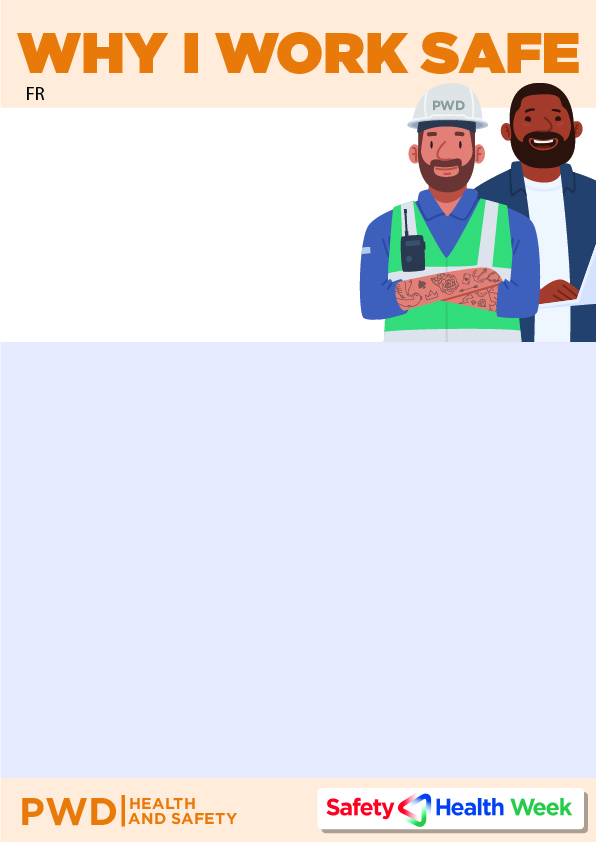
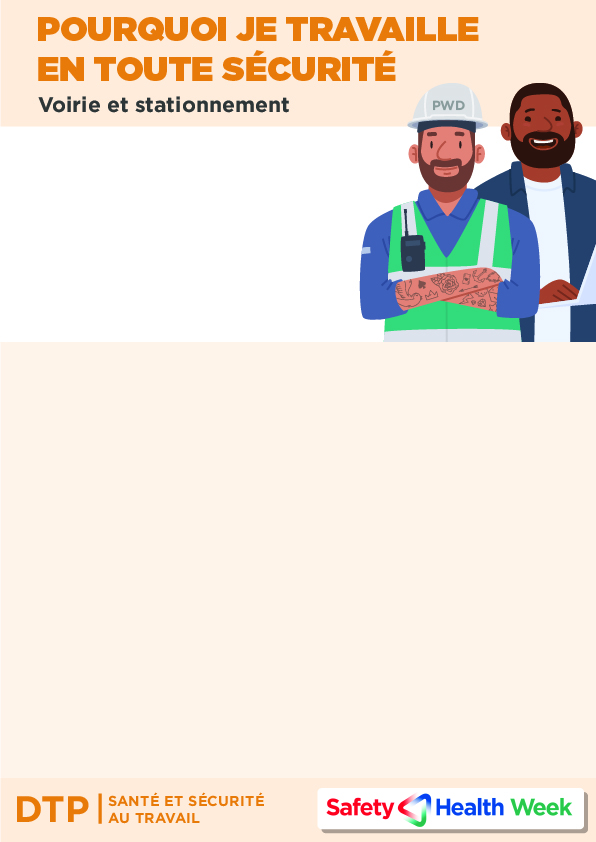
Add files via upload

diff --git a/index-fr.html b/index-fr.html
@@ -195,7 +195,7 @@
     background: #f5f7fa;
     position: fixed;
     z-index: -1;
-    width: 420px;
+    width: 500px;
     height: 1000px;
     overflow: hidden;
     margin-left: -20px;
@@ -607,46 +607,46 @@
   </div>
 </div>
 <div id="successBanner">
-  Poster created! Click Save Image to download and print for your Safety Week board. If you are unable to print, send the image to your supervisor for printing.
+  Affiche créée ! Cliquez sur « Enregistrer l’image » pour la télécharger et l’imprimer pour votre tableau de la Semaine de la sécurité. Si vous ne pouvez pas imprimer.
 </div>
 <div id="errorBanner">
-  Please complete your name and at least one reason before generating your poster.
+  Veuillez indiquer votre nom et au moins un motif avant de générer votre affiche. 
 </div>
 <div class="container">
   <div id="panel"></div>
 
   <div class="form-section">
-    <div class="site-title">PWD Poster Maker</div>
-    <div class="step">Step 1: Select Service Area</div>
+    <div class="site-title">DTP Créateur d'affiches</div>
+    <div class="step">Étape 1 : Sélectionnez votre secteur d'activité </div>
     <div class="template-buttons">
-      <button class="outline selected" onclick="selectTemplate('template6.jpg', this)">General</button>
-      <button class="outline" onclick="selectTemplate('template7.jpg', this)">Parks & Forestry</button>
-      <button class="outline" onclick="selectTemplate('template10.jpg', this)">Roads & Parking</button>
-      <button class="outline" onclick="selectTemplate('template9.jpg', this)">Solid Waste</button>
-      <button class="outline" onclick="selectTemplate('template8.jpg', this)">Traffic</button>
+      <button class="outline selected" onclick="selectTemplate('template6.jpg', this)">Général</button>
+      <button class="outline" onclick="selectTemplate('template7.jpg', this)">Parcs et forêts </button>
+      <button class="outline" onclick="selectTemplate('template10.jpg', this)">Voirie et stationnement </button>
+      <button class="outline" onclick="selectTemplate('template9.jpg', this)">Gestion des déchets solides </button>
+      <button class="outline" onclick="selectTemplate('template8.jpg', this)">Circulation </button>
       
     </div>
 
-    <div class="step">Step 2: Enter Name</div>
-    <input type="text" id="name" placeholder="Enter First Name" maxlength="19">
+    <div class="step">Étape 2 : Saisissez votre nom</div>
+    <input type="text" id="name" placeholder="Saisissez votre prénom" maxlength="19">
 
-    <div class="step">Step 3: Enter Reason(s)</div>
-    <div class="step-desc">These reasons will appear on the poster. Keep them short and meaningful.</div>
-    <input type="text" id="reason1" placeholder="Example: My Dog">
-    <input type="text" id="reason2" placeholder="Example: My Partner">
-    <input type="text" id="reason3" placeholder="Example: My Kids">
-    <input type="text" id="reason4" placeholder="Example: My Favourite Movie">
+    <div class="step">Étape 3 : Saisissez le ou les motifs </div>
+    <div class="step-desc">Ces motifs apparaîtront sur l'affiche. Soyez bref et pertinent. </div>
+    <input type="text" id="reason1" placeholder="Exemple:Mon chien ">
+    <input type="text" id="reason2" placeholder="Exemple:Mon/Ma partenaire ">
+    <input type="text" id="reason3" placeholder="Exemple:Mes enfants ">
+    <input type="text" id="reason4" placeholder="Exemple:Mon film préféré ">
 
-    <div class="step">Step 4: Upload Picture(s)</div>
-    <div class="step-desc">Choose 1–2 images to show on your poster that connect to your reasons.</div>
+    <div class="step">Étape 4 : Téléchargez une ou deux images </div>
+    <div class="step-desc">Choisissez une ou deux images pour votre affiche, en lien avec vos motifs.</div>
     <input type="file" id="img1" accept="image/*">
     <input type="file" id="img2" accept="image/*">
 
 
-    <button class="filled main-btn" onclick="generateCard()">Generate</button>
+    <button class="filled main-btn" onclick="generateCard()">Générer</button>
     <div class="sub-btns">
-      <button class="filled" onclick="saveCard()">Save Image</button>
-      <button class="filled" onclick="resetForm()">Reset</button>
+      <button class="filled" onclick="saveCard()">Enregistrer l'image</button>
+      <button class="filled" onclick="resetForm()">Réinitialiser</button>
     </div>
   </div>
 
@@ -659,16 +659,16 @@
   <div class="instructions-box">
     <div class="close-btn" onclick="closeInstructions()">×</div>
 
-    <h3>HOW TO USE</h3>
+    <h3>MODE D'EMPLOI </h3>
     <ol>
-      <li>Pick your area and fill out the information for your poster!</li>
-      <li>Click generate to preview your poster.</li>
-      <li>Save your image once complete and print it. If you are unable to print, email the poster to your supervisor.</li>
+      <li>Choisissez votre secteur et remplissez les informations pour votre affiche ! </li>
+      <li>Cliquez sur « Générer » pour prévisualiser votre affiche. </li>
+      <li>Une fois votre image terminée, enregistrez-la et imprimez-la. Si vous ne pouvez pas l'imprimer, envoyez-la par courriel à votre gérant. </li>
     </ol>
 
-    <h3>Remember to generate before saving image!</h3>
+    <h3>N'oubliez pas de générer l'affiche avant de l'enregistrer ! </h3>
 
-    <p>Designed for you by PWD Learning & Development</p>
+    <p>Conçu pour vous par le service Formation et Développement DTP </p>
   </div>
 </div>
 
